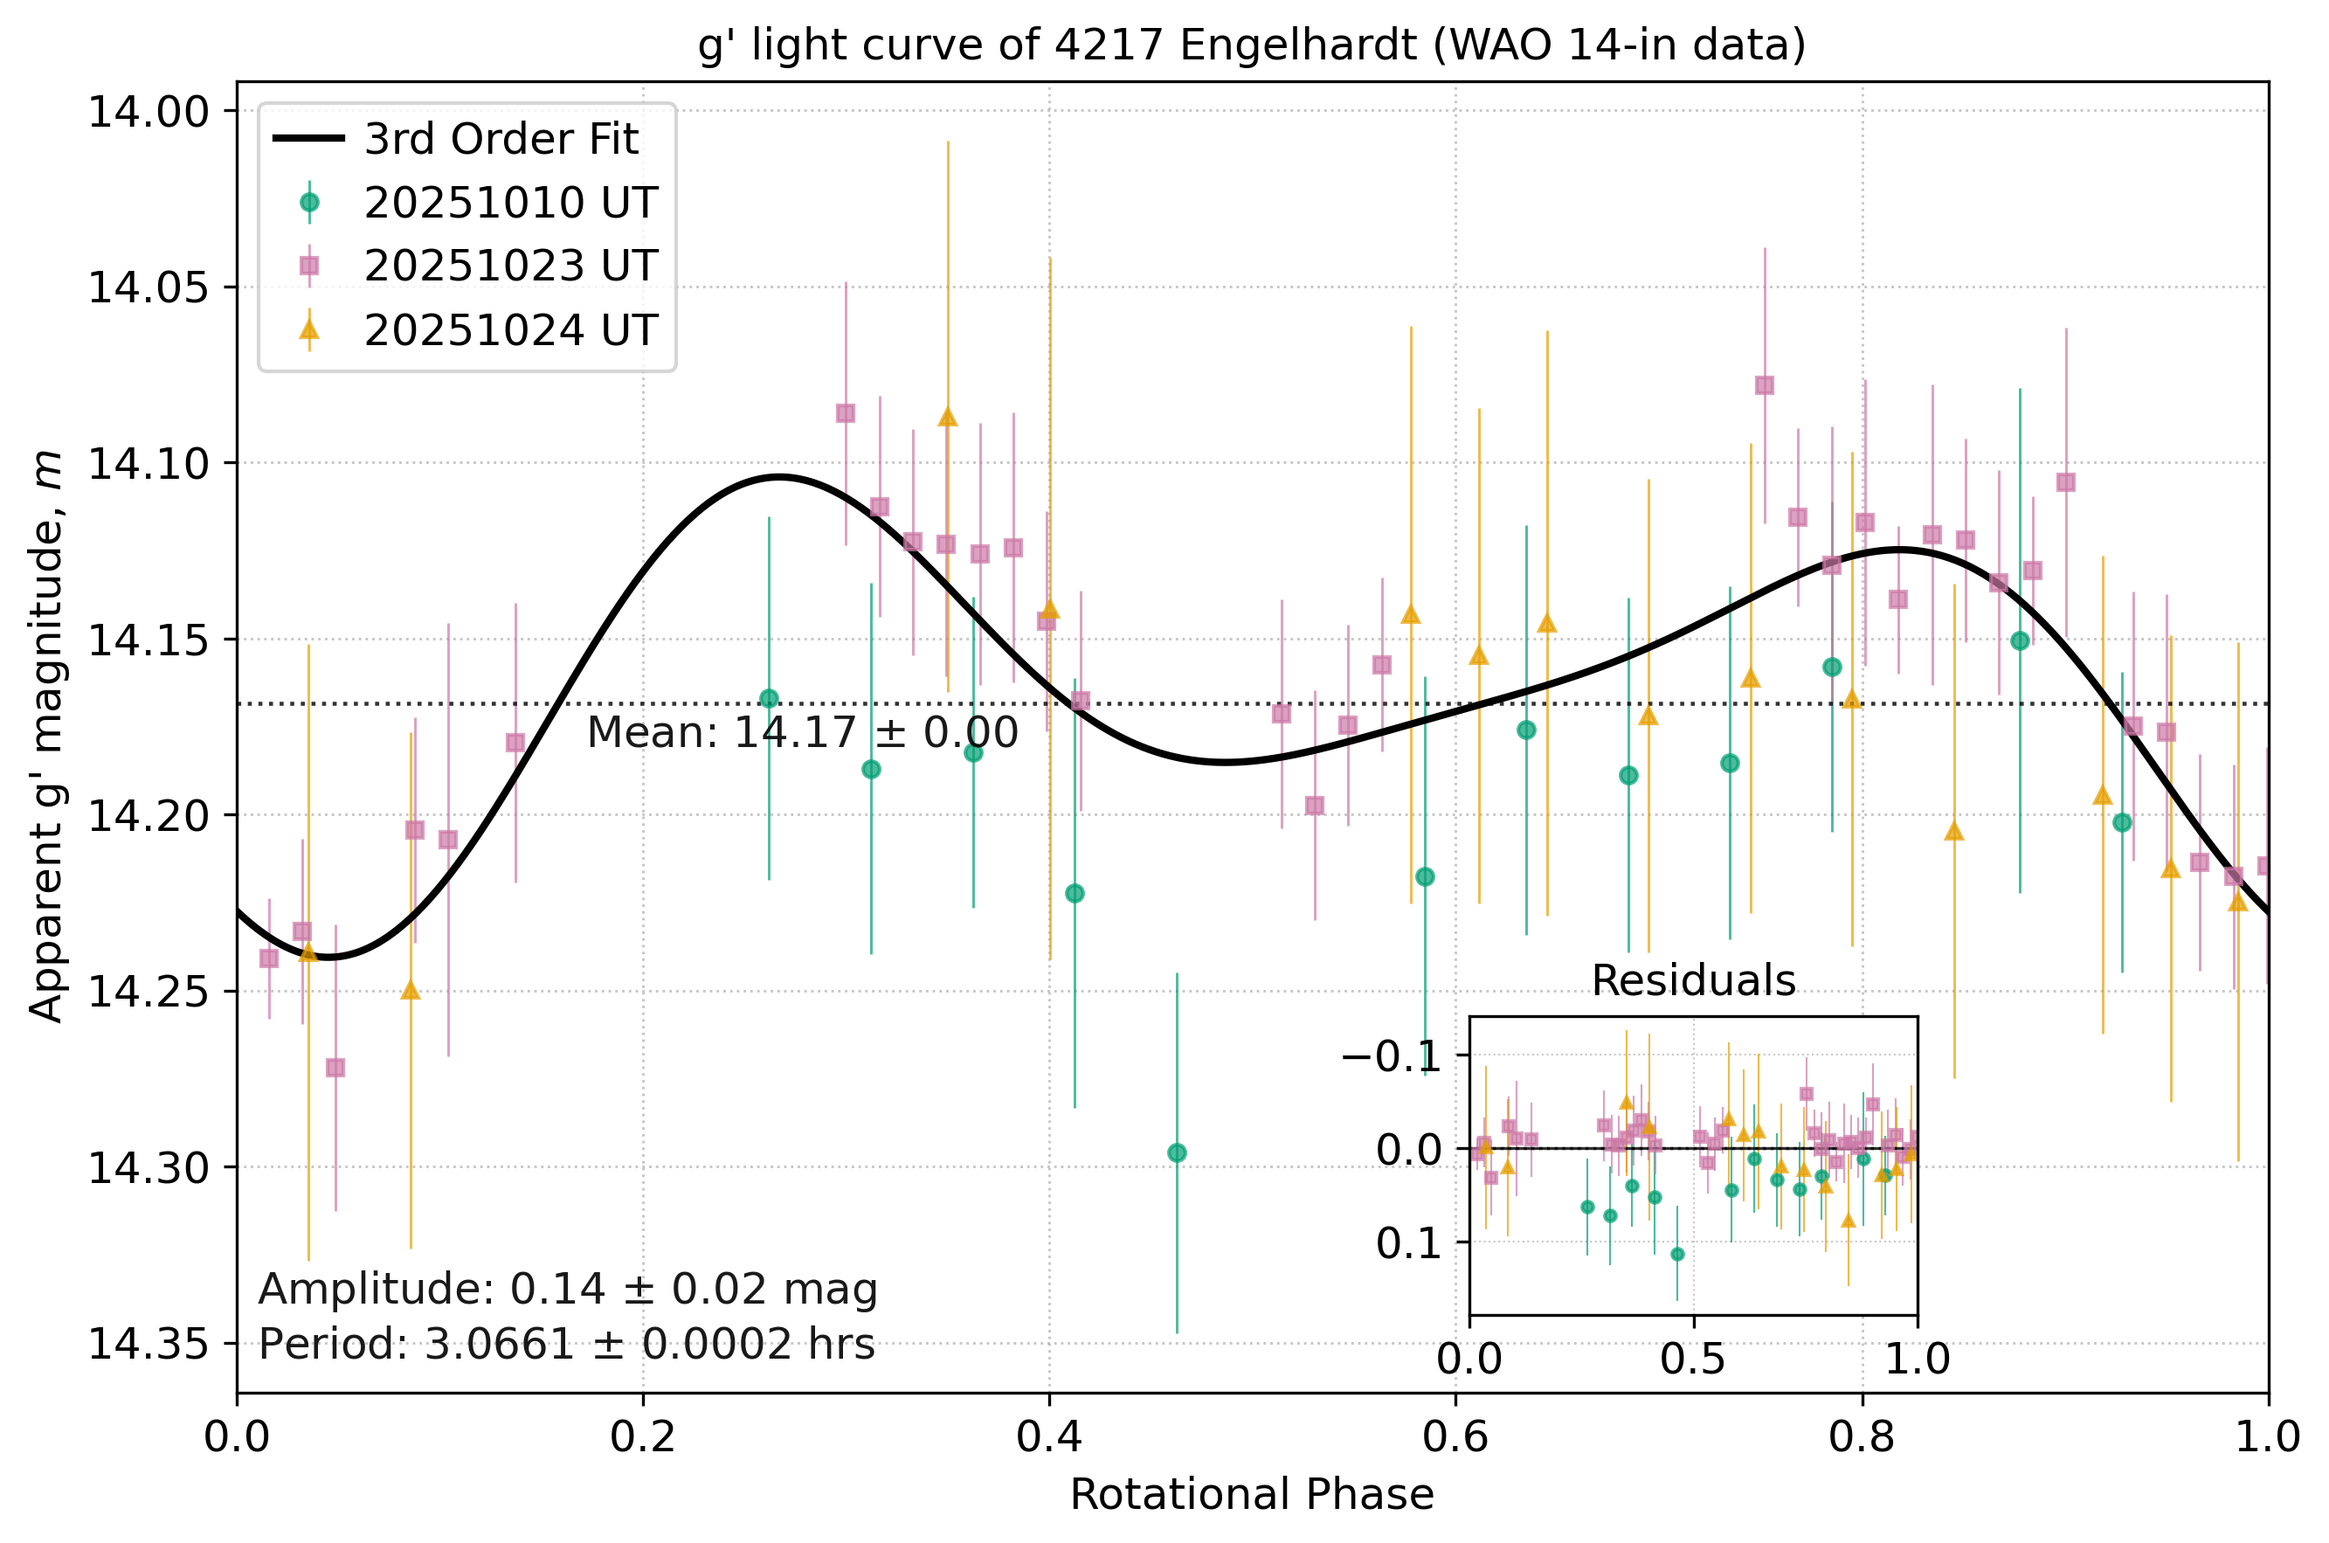
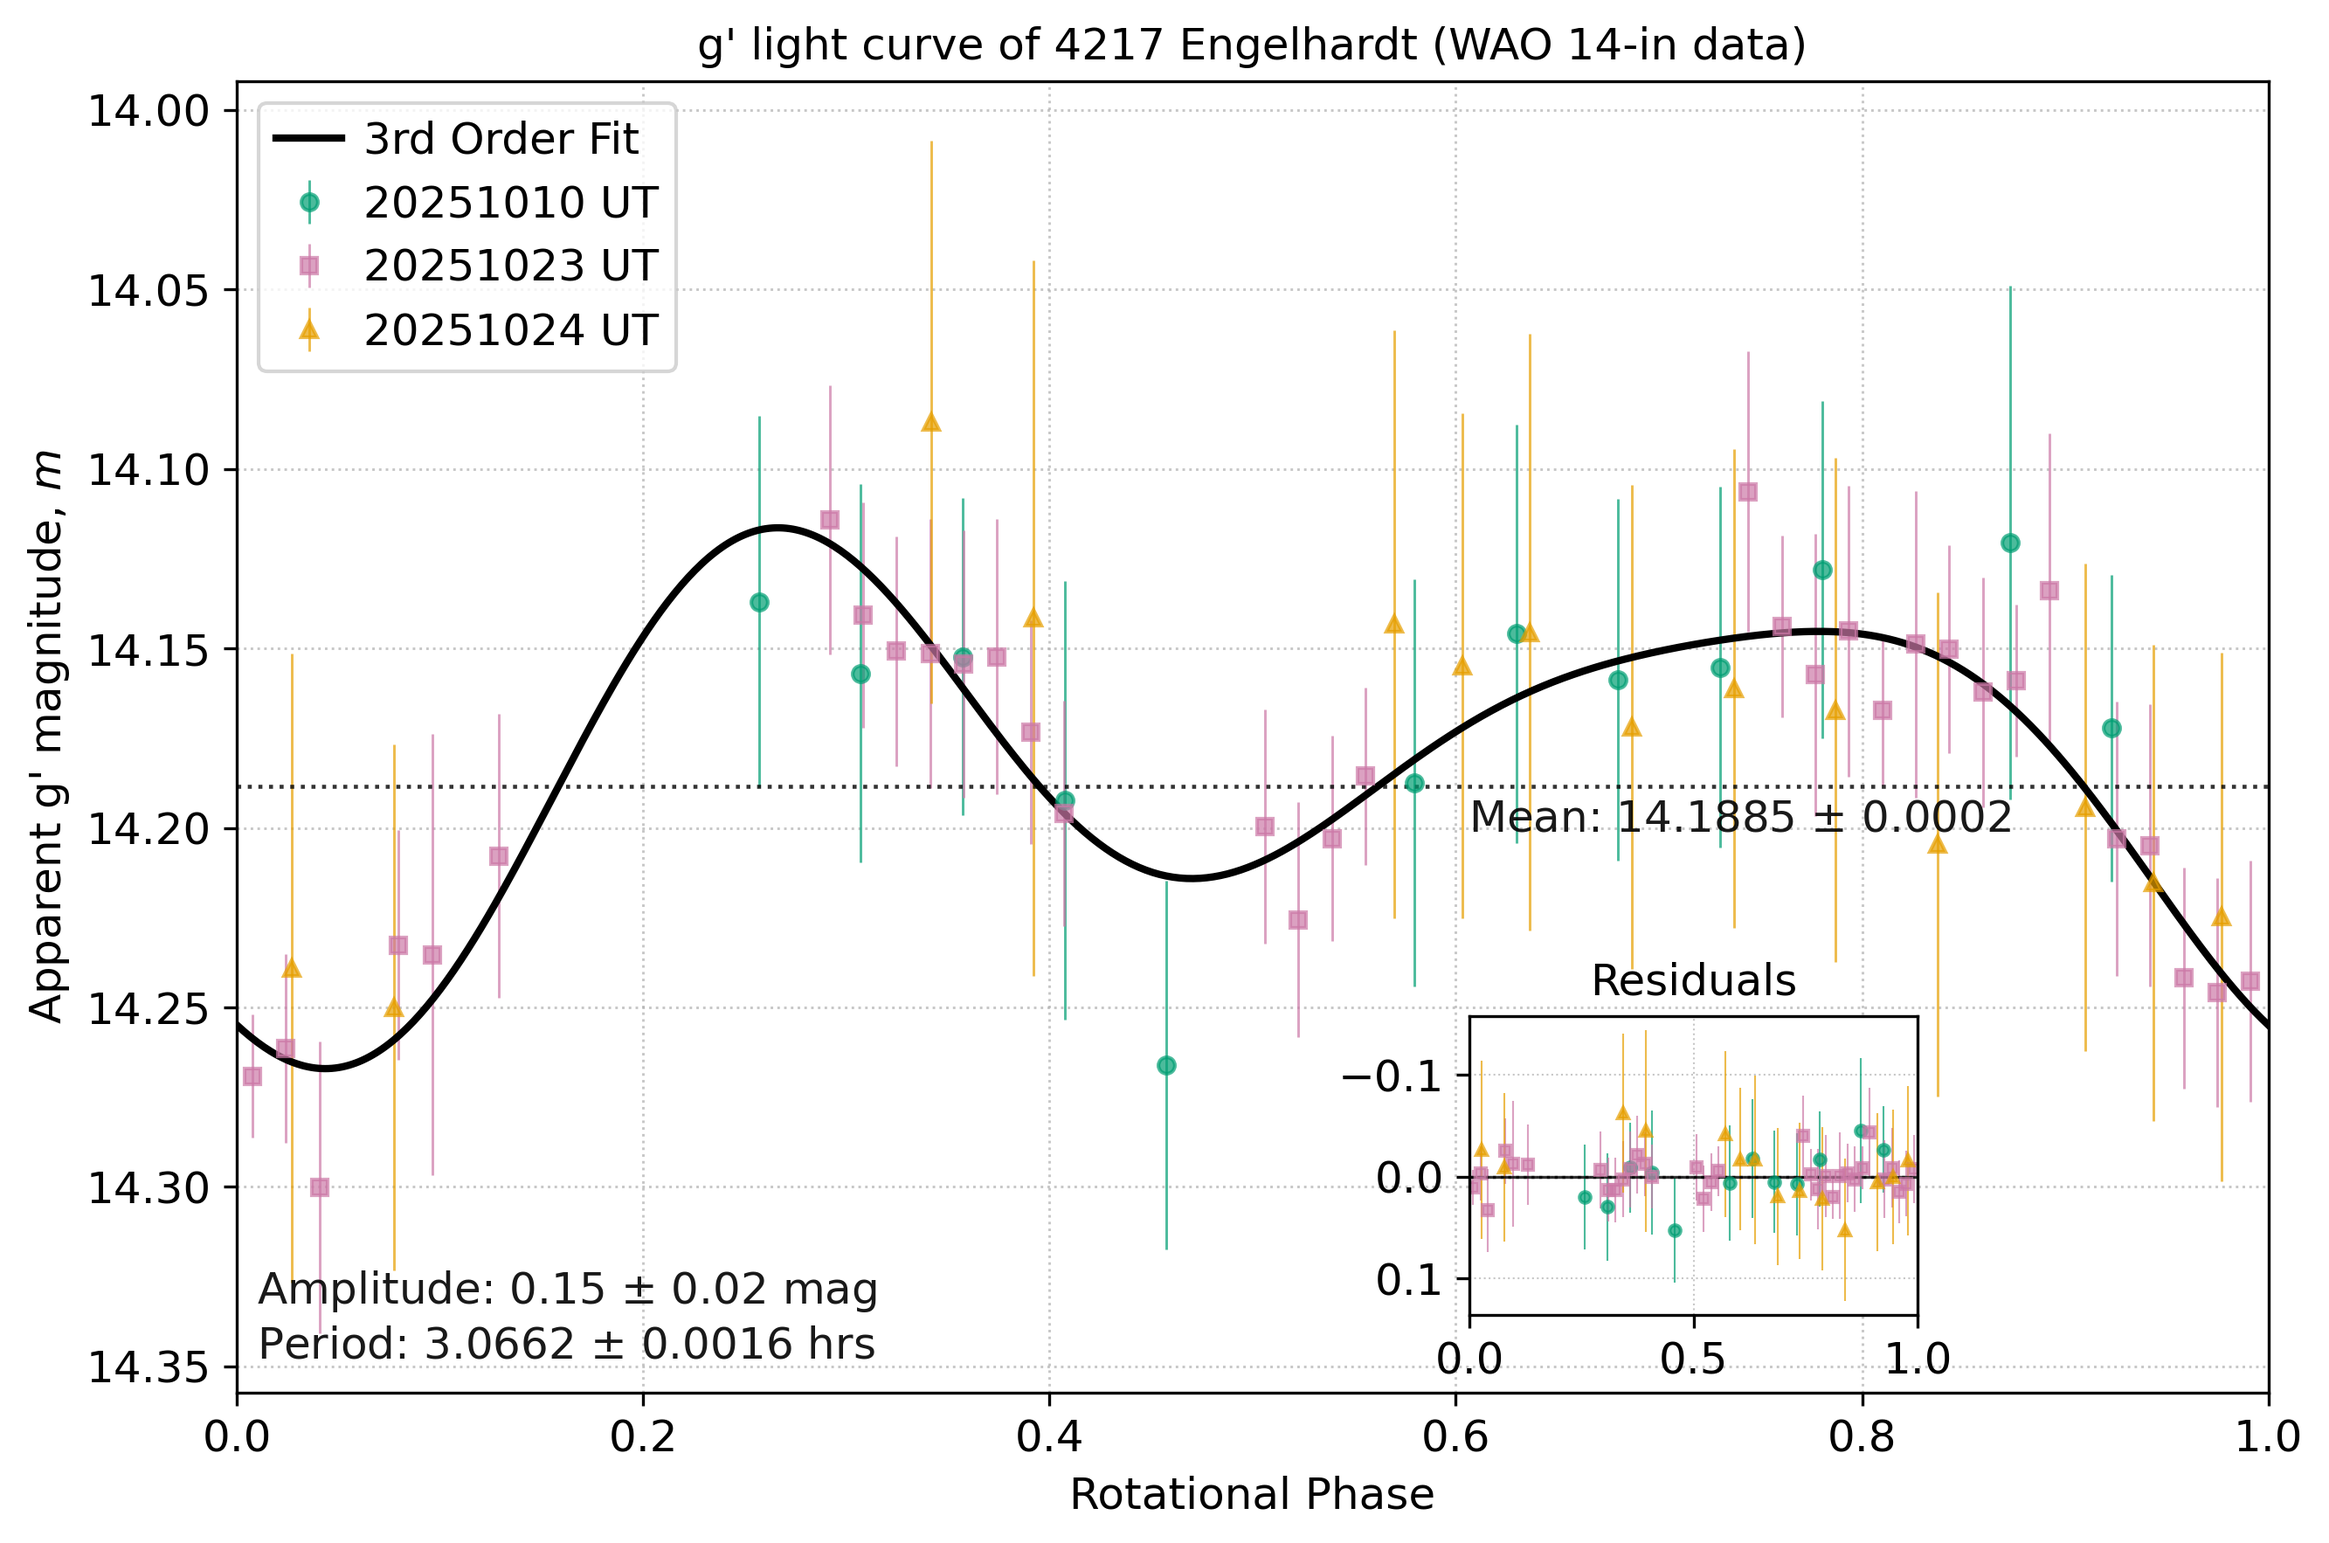
final commit

diff --git a/raw.py b/raw.py
@@ -1,0 +1,165 @@
+import numpy as np
+import matplotlib.pyplot as plt
+from matplotlib.colors import LogNorm
+from matplotlib.ticker import FuncFormatter, MaxNLocator
+from matplotlib.gridspec import GridSpec
+from astropy.io import fits
+import matplotlib as mpl
+from matplotlib.patches import Circle
+import math
+
+# ----------------------------------------------------------------------
+# Global plotting style
+# ----------------------------------------------------------------------
+mpl.rcParams.update({
+    "font.size": 12,
+    "axes.labelsize": 12,
+    "axes.titlesize": 12,
+    "xtick.labelsize": 12,
+    "ytick.labelsize": 12
+})
+
+# ----------------------------------------------------------------------
+# Input file and pointing info
+# ----------------------------------------------------------------------
+fits_file = "Raw/4217/4217_r'_180secs_1.fit"
+
+# Asteroid is centered in the frame at:
+#   RA  = 00 49 25.70
+#   Dec = +15 33 05.5
+ra_h = 0 + 49/60 + 25.70/3600.0
+ra0_deg = ra_h * 15.0                         # central RA in degrees
+dec0_deg = 15 + 33/60 + 5.5/3600.0            # central Dec in degrees
+
+# Plate scale: 0.2"/px native, but 2x2 binning on this night -> 0.4"/px
+platescale_arcsec = 0.4
+platescale_deg = platescale_arcsec / 3600.0   # degrees per pixel
+
+# ----------------------------------------------------------------------
+# Load image
+# ----------------------------------------------------------------------
+data = fits.getdata(fits_file)
+ny, nx = data.shape
+
+# Assume asteroid is at the geometric center of the frame
+x0 = (nx - 1) / 2.0
+y0 = (ny - 1) / 2.0
+
+# ----------------------------------------------------------------------
+# Build approximate RA/Dec coordinates across the field (in degrees)
+# ----------------------------------------------------------------------
+dec_rad = math.radians(dec0_deg)
+cos_dec = math.cos(dec_rad)
+
+x = np.arange(nx)
+y = np.arange(ny)
+
+dx_deg = (x - x0) * platescale_deg / cos_dec   # RA offset in degrees
+dy_deg = (y - y0) * platescale_deg            # Dec offset in degrees
+
+ra_deg = ra0_deg + dx_deg
+dec_deg = dec0_deg + dy_deg
+
+ra_min_deg, ra_max_deg = ra_deg.min(), ra_deg.max()
+dec_min_deg, dec_max_deg = dec_deg.min(), dec_deg.max()
+
+# ----------------------------------------------------------------------
+# Tick label formatters
+# ----------------------------------------------------------------------
+def ra_formatter(x_deg, pos):
+    """Format RA tick (input in degrees) as hh:mm:ss."""
+    ra_hours = (x_deg / 15.0) % 24.0
+
+    h = int(ra_hours)
+    m_frac = (ra_hours - h) * 60.0
+    m = int(m_frac)
+    s = int((m_frac - m) * 60.0 + 0.5)
+
+    # carry rounding
+    if s == 60:
+        s = 0
+        m += 1
+    if m == 60:
+        m = 0
+        h = (h + 1) % 24
+
+    return f"{h:02d}h{m:02d}m{s:02d}s"
+
+def dec_formatter(y_deg, pos):
+    """Format Dec tick (input in degrees) as dd:mm."""
+    sign = "+" if y_deg >= 0 else "-"
+    y_abs = abs(y_deg)
+    d = int(y_abs)
+    m = int((y_abs - d) * 60.0 + 0.5)
+    if m == 60:
+        d += 1
+        m = 0
+    return f"{sign}{d:02d}°{m:02d}'"
+
+# ----------------------------------------------------------------------
+# Plot
+# ----------------------------------------------------------------------
+fig = plt.figure(figsize=(7.0, 4.5))  # wider figure
+gs = GridSpec(1, 2, width_ratios=[20, 1], wspace=0.05)
+
+ax = fig.add_subplot(gs[0, 0])   # main image axis
+cax = fig.add_subplot(gs[0, 1])  # skinny colorbar axis
+
+data_pos = np.where(data > 0, data, np.nan)
+
+im = ax.imshow(
+    data_pos,
+    origin="lower",
+    cmap="gray",
+    norm=LogNorm(
+        vmin=np.nanpercentile(data_pos, 5),
+        vmax=np.nanpercentile(data_pos, 99.5)
+    ),
+    extent=[ra_max_deg, ra_min_deg, dec_min_deg, dec_max_deg]  # RA reversed: east left
+)
+
+# --------- RED CIRCLE AROUND THE ASTEROID (ADJUSTABLE) ---------
+
+# Change these three numbers to tweak the circle:
+radius_arcsec = 16.0          # circle radius in arcsec (try 8, 10, 12, ...)
+d_ra_arcsec   = 95           # RA offset in arcsec (+ = to the left)
+d_dec_arcsec  = -30           # Dec offset in arcsec (+ = up)
+
+# Convert offsets to degrees
+radius_deg  = radius_arcsec / 3600.0
+d_ra_deg    = d_ra_arcsec  / 3600.0 / math.cos(math.radians(dec0_deg))
+d_dec_deg   = d_dec_arcsec / 3600.0
+
+# Final center of the circle in RA/Dec (degrees)
+ra_center_deg  = ra0_deg  + d_ra_deg
+dec_center_deg = dec0_deg + d_dec_deg
+
+circ = Circle(
+    (ra_center_deg, dec_center_deg),
+    radius_deg,
+    edgecolor="red",
+    facecolor="none",
+    linewidth=2,
+)
+ax.add_patch(circ)
+
+# ---------------------------------------------------------------
+
+cbar = fig.colorbar(im, cax=cax)
+cbar.set_label("Counts (log scale)")
+
+ax.xaxis.set_major_formatter(FuncFormatter(ra_formatter))
+ax.yaxis.set_major_formatter(FuncFormatter(dec_formatter))
+ax.xaxis.set_major_locator(MaxNLocator(4))
+ax.yaxis.set_major_locator(MaxNLocator(4))
+
+ax.set_xlabel("Right Ascension (hours)")
+ax.set_ylabel("Declination (deg)")
+ax.set_title("Raw $r'$ frame of (4217) Engelhardt, 180 s, 2025-09-19, 02:46 UT")
+
+ax.set_aspect("equal")
+
+fig.subplots_adjust(left=0.10, right=0.92, top=0.90, bottom=0.15)
+
+fig.savefig("raw_20250919.png", dpi=300, bbox_inches="tight")
+plt.show()

diff --git a/plot.py b/plot.py
@@ -4,8 +4,9 @@ import pandas as pd
 import matplotlib.pyplot as plt
 from scipy.optimize import curve_fit
 from astropy.stats import sigma_clip
+from PyAstronomy.pyTiming import pyPDM
 
-CSV_PATH = "r'.csv"
+CSV_PATH = "Files/r'.csv"
 JD0 = 2460937.567619
 P_HOURS = 3.0661
 gap_days = 0.50
@@ -16,20 +17,52 @@ t = df["JD"].astype(float).to_numpy()
 m = df["Mag"].astype(float).to_numpy()
 e = df["MagErr"].astype(float).to_numpy()
 
-P_days = P_HOURS / 24.0
-phi = ((t - JD0) / P_days) % 1.0
-
 new_m = []
 dt = np.diff(t, prepend=t[0])
 night_id = np.zeros_like(t, dtype=int)
 for i in range(0, len(t)):
     night_id[i] = night_id[i-1] + (dt[i] > gap_days)
     print(night_id[i], np.mean(m[i]))
-    if night_id[i] == 1:
-        new_m.append(m[i]-0.1295071438)
+    if night_id[i] == 0:
+        new_m.append(m[i]-0.023)
+    elif night_id[i] == 1:
+        new_m.append(m[i]-0.15)
+    elif night_id[i] == 2:
+        new_m.append(m[i]-0.03)
     else:
         new_m.append(m[i])
 new_m = np.array(new_m)
+
+## best period search
+P_min_hours = 3.06
+P_max_hours = 3.07
+P_min = P_min_hours / 24.0
+P_max = P_max_hours / 24.0
+dP = (P_max - P_min) / 4000.0
+scanner = pyPDM.Scanner(minVal=P_min, maxVal=P_max, dVal=dP, mode="period")
+y = new_m
+PDM = pyPDM.PyPDM(t, y)
+periods, theta = PDM.pdmEquiBin(10, scanner)
+best_idx = np.argmin(theta)
+best_period_days = periods[best_idx]
+best_period_hours = best_period_days * 24.0
+# error
+Nboot = 200
+P_boot = []
+rng = np.random.default_rng(0)
+for _ in range(Nboot):
+    idx = rng.integers(0, len(t), len(t))
+    t_b = t[idx]
+    m_b = new_m[idx]
+    PDM_b = pyPDM.PyPDM(t_b, m_b)
+    periods_b, theta_b = PDM_b.pdmEquiBin(10, scanner)
+    P_boot.append(periods_b[np.argmin(theta_b)] * 24)
+P_boot = np.array(P_boot)
+period_err_hours = np.std(P_boot, ddof=1)
+print(best_period_hours, period_err_hours)
+
+P_days = best_period_hours / 24.0
+phi = ((t - JD0) / P_days) % 1.0
 
 def two_harmonic(phi, a0, a1, b1, a2, b2):
     return (
@@ -171,20 +204,15 @@ phi_fit = np.linspace(0, 1, 600)
 new_m_fit = four_harmonic(phi_fit, *popt)
 ax1.plot(phi_fit, new_m_fit, 'k-', lw=2, label="4th Order Fit")
 
-mean_val = np.average(new_m, weights=w)
-variance = np.average((new_m - mean_val)**2, weights=w)
-weight_sum = np.sum(w)
-mean_err = np.sqrt(variance / weight_sum)
-
 ax1.axhline(mean_val, color='k', linestyle=':', linewidth=1.1, alpha=0.8)
-ax1.text(0.8, mean_val + 0.015, f'Mean: {mean_val:.2f} $\\pm$ {mean_err:.2f}', 
+ax1.text(0.773, mean_val + 0.0125, f'Mean: {mean_val:.5f} $\\pm$ {mean_err:.5f}', 
          ha='center', va='bottom', alpha=0.9, fontsize=12)
 
-period_text = f'Period: {P_HOURS} $\\pm$ 0.0002 hrs'
+period_text = f'Period: {best_period_hours:.4f} $\\pm$ {period_err_hours:.4f} hrs'
 ax1.text(0.01, 0.02, period_text, 
          transform=ax1.transAxes,
          ha='left', va='bottom', alpha=0.9, fontsize=12)
-amp_text = f'Amplitude: {amp_pp_best:.2f} $\\pm$ {amp_pp_err:.2f} mag' 
+amp_text = f'Amplitude: {amp_pp_best:.3f} $\\pm$ {amp_pp_err:.3f} mag' 
 ax1.text(0.01, 0.06, amp_text, 
          transform=ax1.transAxes,
          ha='left', va='bottom', alpha=0.9, fontsize=12)

diff --git a/plotg.py b/plotg.py
@@ -4,8 +4,9 @@ import pandas as pd
 import matplotlib.pyplot as plt
 from scipy.optimize import curve_fit
 from astropy.stats import sigma_clip
+from PyAstronomy.pyTiming import pyPDM
 
-CSV_PATH = "g'.csv"
+CSV_PATH = "Files/g'.csv"
 JD0 = 2460937.567619
 P_HOURS = 3.0661
 gap_days = 0.50
@@ -16,21 +17,51 @@ t = df["JD"].astype(float).to_numpy()
 m = df["Mag"].astype(float).to_numpy()
 e = df["MagErr"].astype(float).to_numpy()
 
-P_days = P_HOURS / 24.0
-phi = ((t - JD0) / P_days) % 1.0
-
 new_m = []
 dt = np.diff(t, prepend=t[0])
 night_id = np.zeros_like(t, dtype=int)
 for i in range(0, len(t)):
     night_id[i] = night_id[i-1] + (dt[i] > gap_days)
-    if night_id[i] == 1:
-        new_m.append(m[i]+0.05179233333)
+    if night_id[i] == 0:
+        new_m.append(m[i]-0.03)
+    elif night_id[i] == 1:
+        new_m.append(m[i]+0.08)
     else:
         new_m.append(m[i])
 new_m = np.array(new_m)
 print(np.min(new_m))
 print(np.max(new_m))
+
+# best period search
+P_min_hours = 3.06
+P_max_hours = 3.07
+P_min = P_min_hours / 24.0
+P_max = P_max_hours / 24.0
+dP = (P_max - P_min) / 4000.0
+scanner = pyPDM.Scanner(minVal=P_min, maxVal=P_max, dVal=dP, mode="period")
+y = new_m
+PDM = pyPDM.PyPDM(t, y)
+periods, theta = PDM.pdmEquiBin(10, scanner)
+best_idx = np.argmin(theta)
+best_period_days = periods[best_idx]
+best_period_hours = best_period_days * 24.0
+# error
+Nboot = 200
+P_boot = []
+rng = np.random.default_rng(0)
+for _ in range(Nboot):
+    idx = rng.integers(0, len(t), len(t))
+    t_b = t[idx]
+    m_b = new_m[idx]
+    PDM_b = pyPDM.PyPDM(t_b, m_b)
+    periods_b, theta_b = PDM_b.pdmEquiBin(10, scanner)
+    P_boot.append(periods_b[np.argmin(theta_b)] * 24)
+P_boot = np.array(P_boot)
+period_err_hours = np.std(P_boot, ddof=1)
+print(best_period_hours, period_err_hours)
+
+P_days = best_period_hours / 24.0
+phi = ((t - JD0) / P_days) % 1.0
 
 def three_harmonic(phi, a0, a1, b1, a2, b2, a3, b3):
     return (
@@ -143,7 +174,7 @@ weight_sum = np.sum(w)
 mean_err = np.sqrt(variance / weight_sum)
 
 ax1.axhline(mean_val, color='k', linestyle=':', linewidth=1.1, alpha=0.8)
-ax1.text(0.278, mean_val + 0.015, f'Mean: {mean_val:.2f} $\\pm$ {mean_err:.2f}', 
+ax1.text(0.74, mean_val + 0.015, f'Mean: {mean_val:.4f} $\\pm$ {mean_err:.4f}', 
          ha='center', va='bottom', alpha=0.9, fontsize=12)
 print(mean_val)
 
@@ -151,7 +182,7 @@ amp_text = f'Amplitude: {amp_pp_best:.2f} $\\pm$ {amp_pp_err:.2f} mag'
 ax1.text(0.01, 0.06, amp_text, 
          transform=ax1.transAxes,
          ha='left', va='bottom', alpha=0.9, fontsize=12)
-period_text = f'Period: {P_HOURS} $\\pm$ 0.0002 hrs'
+period_text = f'Period: {best_period_hours:.4f} $\\pm$ {period_err_hours:.4f} hrs'
 ax1.text(0.01, 0.02, period_text, 
          transform=ax1.transAxes,
          ha='left', va='bottom', alpha=0.9, fontsize=12)

diff --git a/comparison.py b/comparison.py
@@ -6,7 +6,6 @@ import pickle
 # =========================
 # 1. ASTEROID COLOR CURVE
 # =========================
-
 with open("rtenten.pkl", "rb") as f:
     rtenten = pickle.load(f)
 with open("rtentwentyfour.pkl", "rb") as f:
@@ -67,7 +66,7 @@ period_text = f'Period: {P_HOURS} $\\pm$ 0.0002 hrs'
 
 PATH1 = "1010rcomp.csv"
 PATH2 = "1010gcomp.csv"
-PATH3 = "1024rcomp.csv"
+PATH3 = "Files/1024rcomp.csv"
 PATH4 = "1024gcomp.csv"
 
 df1 = pd.read_csv(PATH1)
@@ -145,7 +144,7 @@ for i, nid in enumerate(unique_nights_ast):
     )
 
 ax1.axhline(mean_ast, color='k', linestyle='-', linewidth=1.1, alpha=0.8)
-ax1.text(0.5, mean_ast, f'Mean: {mean_ast:.2f} $\\pm$ {mean_err_ast:.2f}',
+ax1.text(0.5, mean_ast, f'Mean: {mean_ast:.4f} $\\pm$ {mean_err_ast:.4f}',
          ha='center', va='bottom', alpha=0.9, fontsize=12)
 
 ax1.text(0.01, 0.02, period_text,
@@ -171,11 +170,14 @@ for i, nid in enumerate(unique_nights_comp):
     mean_err_night = np.sqrt(var_night / weight_sum_night)
 
     ax2.axhline(mean_night, color='k', linestyle='-', linewidth=1.1, alpha=0.8)
-
-    xtext = 0.5
-    ytext = mean_night
+    if nid == 0:
+        xtext = 0.53
+        ytext = mean_night - 0.001
+    if nid == 1:
+        xtext = 0.5
+        ytext = mean_night
     ax2.text(xtext, ytext,
-             f'Mean: {mean_night:.2f} $\\pm$ {mean_err_night:.2f}',
+             f'Mean: {mean_night:.4f} $\\pm$ {mean_err_night:.4f}',
              ha='center', va='bottom', alpha=0.9, fontsize=12)
 
     ax2.errorbar(
